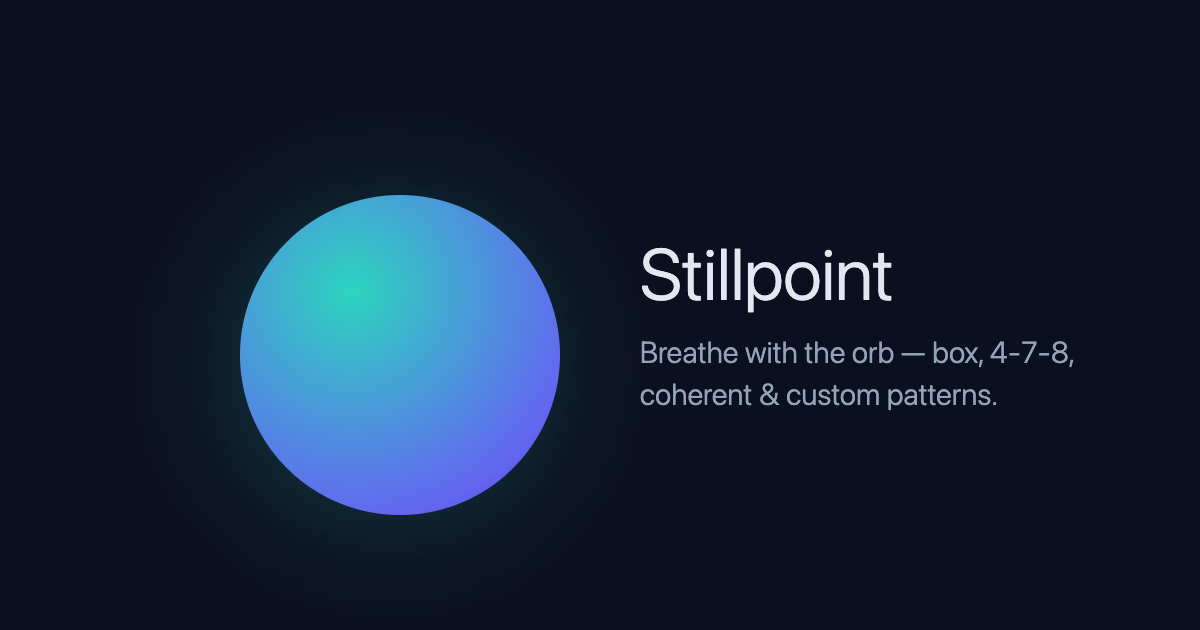
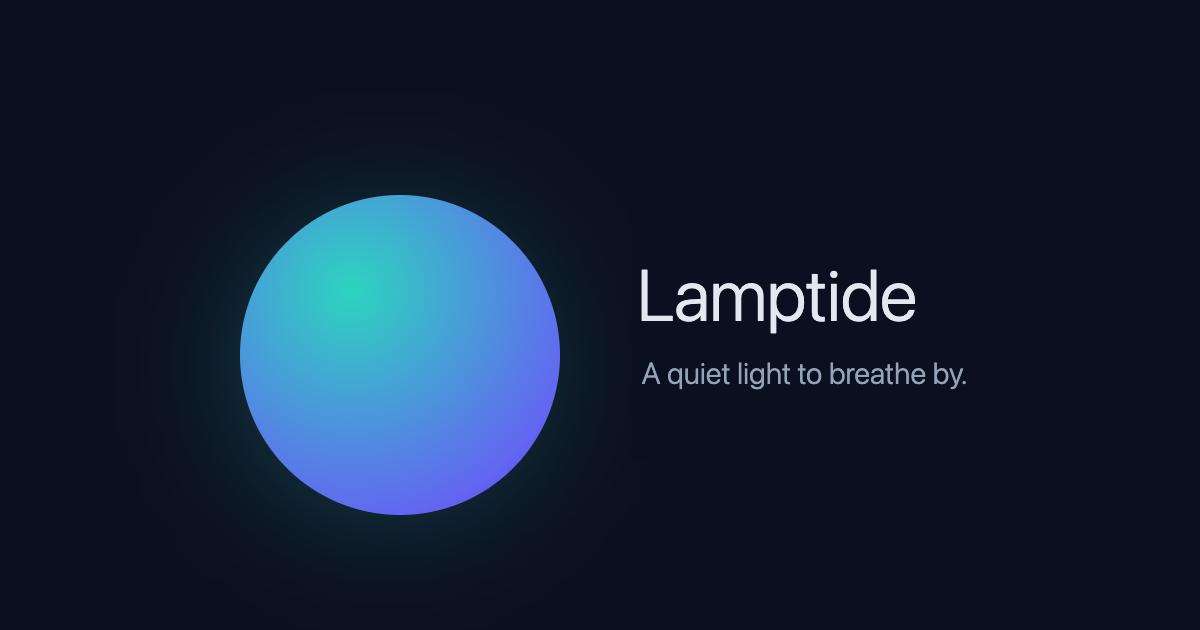
Stillpoint is now Lamptide: "A quiet light to breathe by."
The working name had to go. "Stillpoint" was taken as a domain on fifteen
endings — .com, .app, .org, .co, .io and ten more; only stillpoint.garden was
free — and at least four other breathing and meditation apps already use it,
one with nearly this app's pattern set (box, 4-7-8, coherent, the sigh).
lamptide.com was free at $11.08 a year and no app, brand or store listing
uses the name.

Where it changed — everywhere the name is shown, nowhere it is stored:
- Page title, Open Graph and Twitter titles: "Lamptide — a quiet light to
  breathe by". The research page: "The science of slow breathing — Lamptide".
- Install manifest: name carries the tagline, short_name is just "Lamptide";
  description leads with "Slow breathing, paced by light" for search.
- New apple-mobile-web-app-title, so the iOS home-screen label is "Lamptide"
  rather than whatever Safari makes of the full title.
- The settings drawer's disclaimer: "Lamptide is an educational pacing tool…"
- The share image, redrawn: same 72px/300 and 30px/300 type, same colours,
  same left edge, the text block centred where the old one sat. The orb half is
  pixel-identical to the old card (0 of 378,000 pixels changed).
- PRD (name, tagline, where each is used), README, CLAUDE.md, the playbook,
  and the package name. PLAN.md and PLAN_V2.md keep "Stillpoint" — they are
  the record of what was built under it.

What did NOT change, on purpose: the localStorage key is still
[…]

Changed region(s): [[0.5242, 0.3921, 0.8942, 0.6635]]

diff --git a/index.html b/index.html
@@ -9,25 +9,27 @@
     <meta name="theme-color" media="(prefers-color-scheme: dark)" content="#0b1020" />
     <meta name="theme-color" media="(prefers-color-scheme: light)" content="#fcfaf4" />
     <meta name="apple-mobile-web-app-status-bar-style" content="black-translucent" />
-    <title>Stillpoint — a breath pacer</title>
+    <title>Lamptide — a quiet light to breathe by</title>
+    <!-- The home-screen label on iOS. Without it Safari offers the whole title. -->
+    <meta name="apple-mobile-web-app-title" content="Lamptide" />
     <meta
       name="description"
-      content="A calm, animated breath pacer: box breathing, 4-7-8, coherent breathing, the physiological sigh, and custom patterns. Free, no account, works offline."
+      content="Slow breathing, paced by light: box breathing, 4-7-8, coherent breathing, the physiological sigh, and custom patterns. Free, no account, works offline."
     />
     <meta property="og:type" content="website" />
-    <meta property="og:title" content="Stillpoint — a breath pacer" />
+    <meta property="og:title" content="Lamptide — a quiet light to breathe by" />
     <meta
       property="og:description"
-      content="Breathe with the orb — box, 4-7-8, coherent breathing, the physiological sigh, and custom patterns. Free, no account, works offline."
+      content="Slow breathing, paced by light — box, 4-7-8, coherent breathing, the physiological sigh, and custom patterns. Free, no account, works offline."
     />
     <meta property="og:image" content="/og.png" />
     <meta property="og:image:width" content="1200" />
     <meta property="og:image:height" content="630" />
     <meta name="twitter:card" content="summary_large_image" />
-    <meta name="twitter:title" content="Stillpoint — a breath pacer" />
+    <meta name="twitter:title" content="Lamptide — a quiet light to breathe by" />
     <meta
       name="twitter:description"
-      content="Breathe with the orb — box, 4-7-8, coherent breathing, and custom patterns."
+      content="Slow breathing, paced by light — box, 4-7-8, coherent breathing, and custom patterns."
     />
     <meta name="twitter:image" content="/og.png" />
   </head>

diff --git a/src/pages/Home.tsx b/src/pages/Home.tsx
@@ -144,7 +144,7 @@ export default function Home() {
 
   useWakeLock(status === 'running');
   usePhaseCues(session);
-  usePageTitle('Stillpoint — a breath pacer');
+  usePageTitle('Lamptide — a quiet light to breathe by');
 
   // Starting the first session is the onboarding's natural end.
   const dismissOnboarding = useSettings((s) => s.dismissOnboarding);
@@ -322,7 +322,7 @@ export default function Home() {
      */
     <>
       <main className="relative grid min-h-[100svh] grid-cols-[minmax(0,1fr)] grid-rows-[1fr_auto] overflow-x-hidden px-6 land:overflow-hidden land:grid-cols-[minmax(0,5fr)_minmax(0,4fr)] land:grid-rows-[minmax(0.75rem,1fr)_auto_auto_auto_minmax(0.5rem,1fr)] land:pl-[max(1.5rem,env(safe-area-inset-left))] land:pr-[max(1.5rem,env(safe-area-inset-right))] land:[--orb-x:calc(100%_-_1.5rem_-_(100%_-_3rem)_*_2_/_9)]">
-        <h1 className="sr-only">Stillpoint — a breath pacer</h1>
+        <h1 className="sr-only">Lamptide — a quiet light to breathe by</h1>
         <Background roomLightRef={roomLightRef} />
         <SessionProgress
           session={session}

diff --git a/vite.config.ts b/vite.config.ts
@@ -9,10 +9,10 @@ export default defineConfig({
       registerType: 'autoUpdate',
       includeAssets: ['favicon.svg', 'apple-touch-icon.png', 'og.png'],
       manifest: {
-        name: 'Stillpoint — a breath pacer',
-        short_name: 'Stillpoint',
+        name: 'Lamptide — a quiet light to breathe by',
+        short_name: 'Lamptide',
         description:
-          'A calm, animated breath pacer: box breathing, 4-7-8, coherent breathing, the physiological sigh, and custom patterns. Works offline.',
+          'Slow breathing, paced by light: box breathing, 4-7-8, coherent breathing, the physiological sigh, and custom patterns. Works offline.',
         theme_color: '#0b1020',
         background_color: '#0b1020',
         display: 'standalone',

diff --git a/src/components/SettingsDrawer/PreferencesSection.tsx b/src/components/SettingsDrawer/PreferencesSection.tsx
@@ -222,8 +222,8 @@ export function PreferencesSection() {
           The science of slow breathing
         </Link>
         <p className="text-meta text-ink-faint">
-          Stillpoint is an educational pacing tool, not medical advice, and is not a treatment for
-          any condition. See the safety notes on the research page.
+          Lamptide is an educational pacing tool, not medical advice, and is not a treatment for any
+          condition. See the safety notes on the research page.
         </p>
       </section>
     </div>

diff --git a/src/store/useSettings.ts b/src/store/useSettings.ts
@@ -86,6 +86,9 @@ export const useSettings = create<SettingsState>()(
       setMotionPreference: (preference) => set({ motionPreference: preference }),
       setSpokenCues: (on) => set({ spokenCues: on }),
     }),
+    // Still the old name, on purpose. The app was Stillpoint until October 2026,
+    // and this key is where every visitor's settings and custom patterns live:
+    // renaming it would quietly erase them all. It is never shown to anyone.
     { name: 'stillpoint:settings' },
   ),
 );

diff --git a/src/pages/Research.tsx b/src/pages/Research.tsx
@@ -31,7 +31,7 @@ import {
  * round. Presentational pieces live in `researchParts.tsx`.
  */
 export default function Research() {
-  usePageTitle('The science of slow breathing — Stillpoint');
+  usePageTitle('The science of slow breathing — Lamptide');
   return (
     <>
       <a

diff --git a/PRD.md b/PRD.md
@@ -1,4 +1,10 @@
-# Product Requirements Document — "Stillpoint" (working name)
+# Product Requirements Document — "Lamptide"
+
+**Name:** Lamptide — renamed from the working name "Stillpoint" in October 2026, which at least four
+other breathing and meditation apps already use and which had no matching domain left.
+**Tagline:** "A quiet light to breathe by." It goes wherever the name is shown in full: the page
+title, the install prompt, link previews and the share image. The home-screen label is just "Lamptide".
+**Search description:** "Slow breathing, paced by light", followed by the pattern list.
 
 A breath-pacing web app. Visitors land on a full-screen animated pacer, pick a breathing pattern, and breathe along. A small menu opens settings (custom patterns, audio, theme) and links to a research page summarizing the evidence for breathwork.
 
@@ -195,7 +201,7 @@ meta-analysis of HRV *biofeedback* for stress and anxiety with a large effect
 (between-groups Hedges' g = 0.83, 24 studies). It is tempting precisely because
 the number is bigger than anything else on this page — and it is evidence for a
 sensor-driven intervention this app does not implement. Adding it would invite
-a reader to credit Stillpoint with an effect size it has not earned.
+a reader to credit Lamptide with an effect size it has not earned.
 
 ---
 

diff --git a/CLAUDE.md b/CLAUDE.md
@@ -3,7 +3,7 @@
 Project context for Claude Code. Read PRD.md for the full product spec — this file covers how to work in this repo.
 
 ## What this is
-A static breath-pacing web app ("Stillpoint"): an animated orb paces inhale/hold/exhale, users pick built-in patterns (box, 4-7-8, coherent, physiological sigh) or build custom ones, and a `/research` page summarizes the evidence. No backend, no accounts, no analytics.
+A static breath-pacing web app ("Lamptide", formerly "Stillpoint"): an animated orb paces inhale/hold/exhale, users pick built-in patterns (box, 4-7-8, coherent, physiological sigh) or build custom ones, and a `/research` page summarizes the evidence. No backend, no accounts, no analytics.
 
 ## Stack
 - Vite + React 18 + TypeScript (strict mode on)

diff --git a/WORKING_WITH_CLAUDE_CODE.md b/WORKING_WITH_CLAUDE_CODE.md
@@ -1,6 +1,6 @@
 # Working With Claude Code on This Project
 
-A practical playbook for building Stillpoint with Claude Code. Official docs: https://code.claude.com/docs/en/best-practices
+A practical playbook for building Lamptide with Claude Code. Official docs: https://code.claude.com/docs/en/best-practices
 
 ## Setup (once)
 1. Create the repo, drop `CLAUDE.md` and `PRD.md` in the root, commit them.

diff --git a/README.md b/README.md
@@ -1,4 +1,6 @@
-# Stillpoint
+# Lamptide
+
+*A quiet light to breathe by.* (Formerly "Stillpoint".)
 
 A breath-pacing web app: an animated orb paces inhale/hold/exhale through built-in or custom breathing patterns, with a research page summarizing the evidence. Static bundle — no backend, no accounts, no analytics.
 
